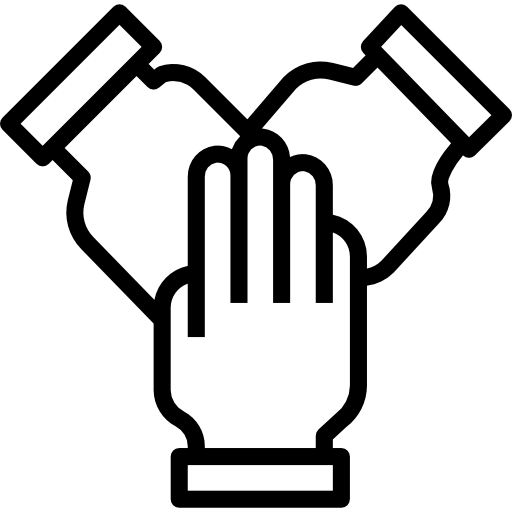
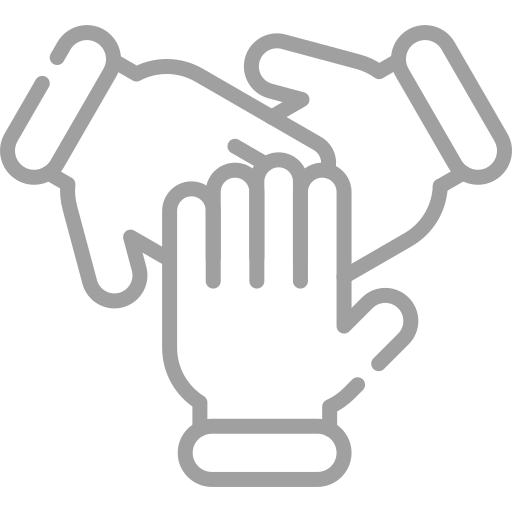
User image add

diff --git a/src/pages/ChatPage.jsx b/src/pages/ChatPage.jsx
@@ -20,6 +20,7 @@ import { useTheme } from '../context/ThemeContext';
 import { useToast } from '../hooks/useToast';
 import { useKeyboard } from '../hooks/useKeyboard';
 
+
 const ChatPage = () => {
   const [groups, setGroups] = useState([]);
   const [selectedGroup, setSelectedGroup] = useState(null);
@@ -38,7 +39,9 @@ const ChatPage = () => {
   const { toggleTheme } = useTheme();
   const { toasts, removeToast } = useToast();
 
+
   const token = typeof window !== 'undefined' ? localStorage.getItem('token') : null;
+
 
   useEffect(() => {
     const storedToken = localStorage.getItem('token');
@@ -49,6 +52,7 @@ const ChatPage = () => {
     fetchUserProfile(storedToken);
     fetchGroups(storedToken);
   }, [navigate]);
+
 
   useEffect(() => {
     if (user && !isSocketInitialized.current) {
@@ -68,6 +72,7 @@ const ChatPage = () => {
       socket.off('notificationUpdate');
     };
   }, [user]);
+
 
   useKeyboard({
     'ctrl+k': () => setShowCommandPalette(true),
@@ -102,6 +107,7 @@ const ChatPage = () => {
     }
   }, [showCommandPalette, showGlobalSearch, showShortcutsHelp, showProfile, groups, selectedGroup, selectedGroupIndex]);
 
+
   const fetchUserProfile = async storedToken => {
     try {
       const response = await fetch(`${API_LINK}/api/auth/profile`, {
@@ -113,6 +119,7 @@ const ChatPage = () => {
       }
     } catch {}
   };
+
 
   const fetchGroups = async storedToken => {
     setGroupsLoading(true);
@@ -131,6 +138,7 @@ const ChatPage = () => {
     setGroupsLoading(false);
   };
 
+
   const handleSelectGroup = async group => {
     setSelectedGroup(group);
     setChatSearchTerm('');
@@ -146,17 +154,27 @@ const ChatPage = () => {
     fetchGroups(t);
   };
 
+
   const filteredGroups = groups.filter(g =>
     (g.group_name || '').toLowerCase().includes(groupSearch.toLowerCase())
   );
+
 
   const handleChatSearchChange = term => {
     setChatSearchTerm(term);
   };
 
+
   const handleChatSearchNav = direction => {
     setChatSearchNav(direction);
   };
+
+
+  const getUserInitial = username => {
+    if (!username) return 'U';
+    return username.charAt(0).toUpperCase();
+  };
+
 
   return (
     <>
@@ -179,7 +197,9 @@ const ChatPage = () => {
                     className={styles.profileImg}
                   />
                 ) : (
-                  <span className={styles.defaultUserIcon}>U</span>
+                  <span className={styles.defaultUserIcon}>
+                    {getUserInitial(user?.name)}
+                  </span>
                 )}
               </div>
               <input
@@ -196,7 +216,7 @@ const ChatPage = () => {
                 title="Global Search (Ctrl+F)"
                 aria-label="Global Search"
               >
-                
+                🔍
               </button> */}
               {user && (
                 <NotificationBell
@@ -270,6 +290,7 @@ const ChatPage = () => {
         </div>
       </div>
 
+
       {showProfile && (
         <UserProfile
           user={user}
@@ -284,11 +305,13 @@ const ChatPage = () => {
         />
       )}
 
+
       <GlobalSearch
         isOpen={showGlobalSearch}
         onClose={() => setShowGlobalSearch(false)}
         onSelectGroup={handleSelectGroup}
       />
+
 
       <CommandPalette
         isOpen={showCommandPalette}
@@ -298,19 +321,23 @@ const ChatPage = () => {
         toggleTheme={toggleTheme}
       />
 
+
       <KeyboardShortcutsHelp
         isOpen={showShortcutsHelp}
         onClose={() => setShowShortcutsHelp(false)}
       />
+
 
       <FAB
         onCommandPalette={() => setShowCommandPalette(true)}
         onGlobalSearch={() => setShowGlobalSearch(true)}
       />
 
+
       <ToastContainer toasts={toasts} removeToast={removeToast} />
     </>
   );
 };
+
 
 export default ChatPage;

diff --git a/src/components/UserProfile/UserProfile.jsx b/src/components/UserProfile/UserProfile.jsx
@@ -3,6 +3,7 @@ import { createPortal } from 'react-dom';
 import styles from './UserProfile.module.css';
 import AvatarCrop from '../AvatarCrop/AvatarCrop';
 import Modal from '../ui/Model/Model';
+import { API_LINK } from '../../config.js';
 
 const UserProfile = ({ user, onUpdate, onClose, onLogout }) => {
   const [editMode, setEditMode] = useState({ name: false, email: false, password: false, bio: false, status: false });
@@ -54,17 +55,36 @@ const UserProfile = ({ user, onUpdate, onClose, onLogout }) => {
     reader.readAsDataURL(file);
   };
 
-  const handleCropComplete = (blob) => {
+  const handleCropComplete = async (blob) => {
     const url = URL.createObjectURL(blob);
     setPreviewAvatar(url);
     setAvatarFile(blob);
     setShowCropModal(false);
     setTempImageSrc(null);
 
-    if (onUpdate) {
-      const formData = new FormData();
-      formData.append('avatar', blob, 'avatar.jpg');
-      onUpdate({ avatar: formData });
+    const token = localStorage.getItem('token');
+    if (!token) return;
+
+    const formData = new FormData();
+    formData.append('avatar', blob, 'avatar.jpg');
+
+    try {
+      const response = await fetch(`${API_LINK}/api/auth/profile/avatar`, {
+        method: 'POST',
+        headers: {
+          'Authorization': `Bearer ${token}`
+        },
+        body: formData
+      });
+
+      if (response.ok) {
+        const data = await response.json();
+        if (onUpdate) {
+          onUpdate({ avatar_url: data.avatar_url });
+        }
+      }
+    } catch (error) {
+      console.error('Avatar upload error:', error);
     }
   };
 
